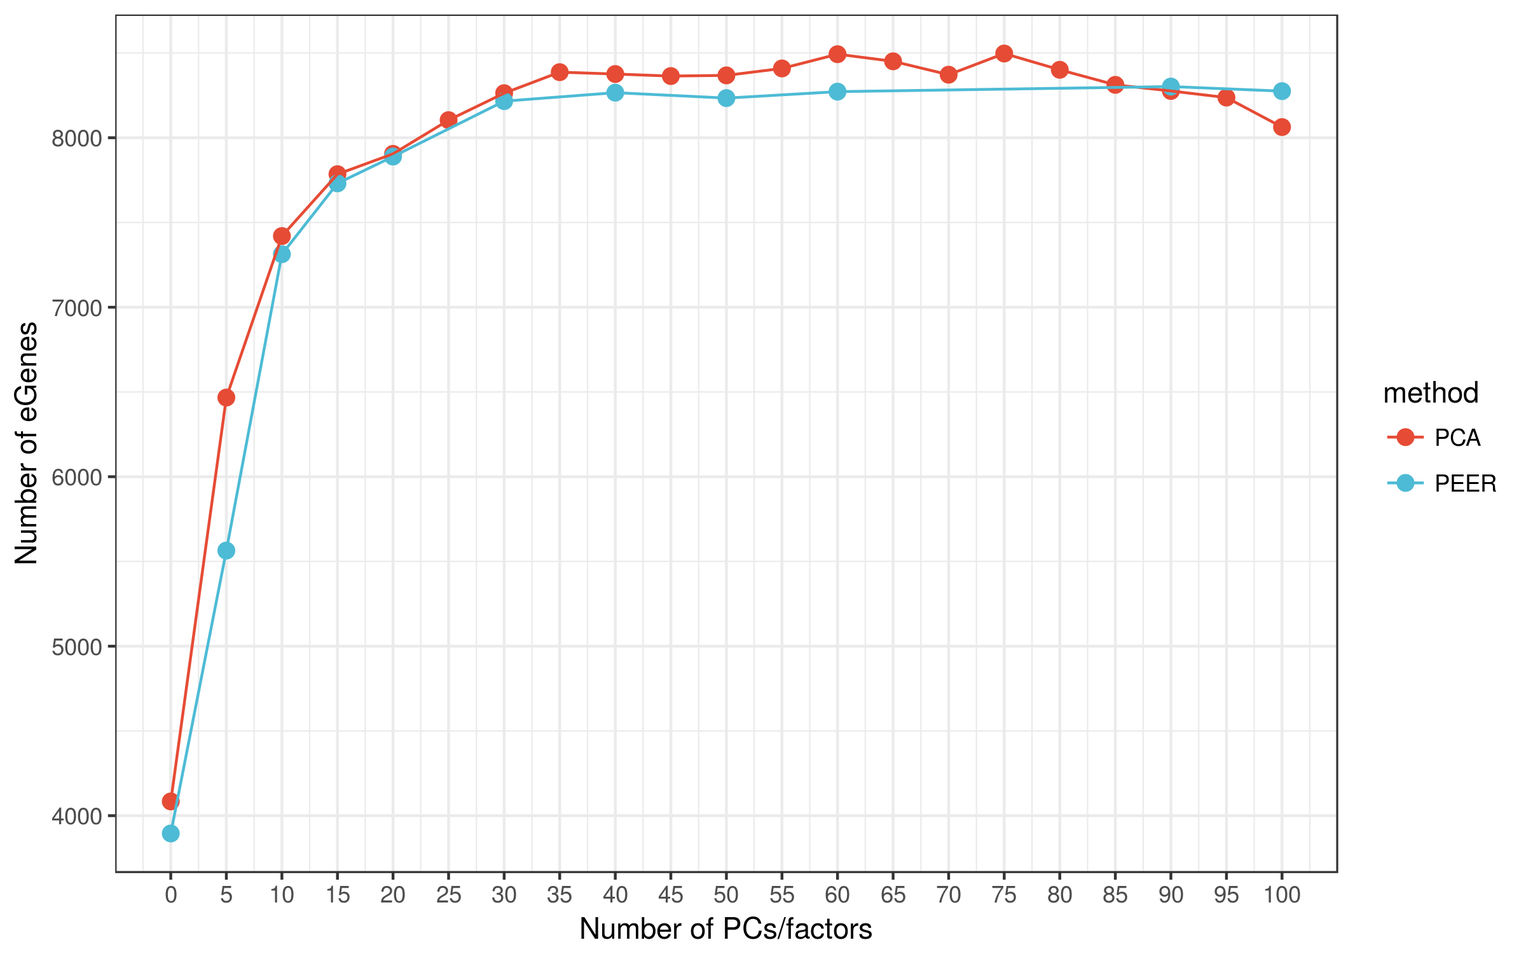
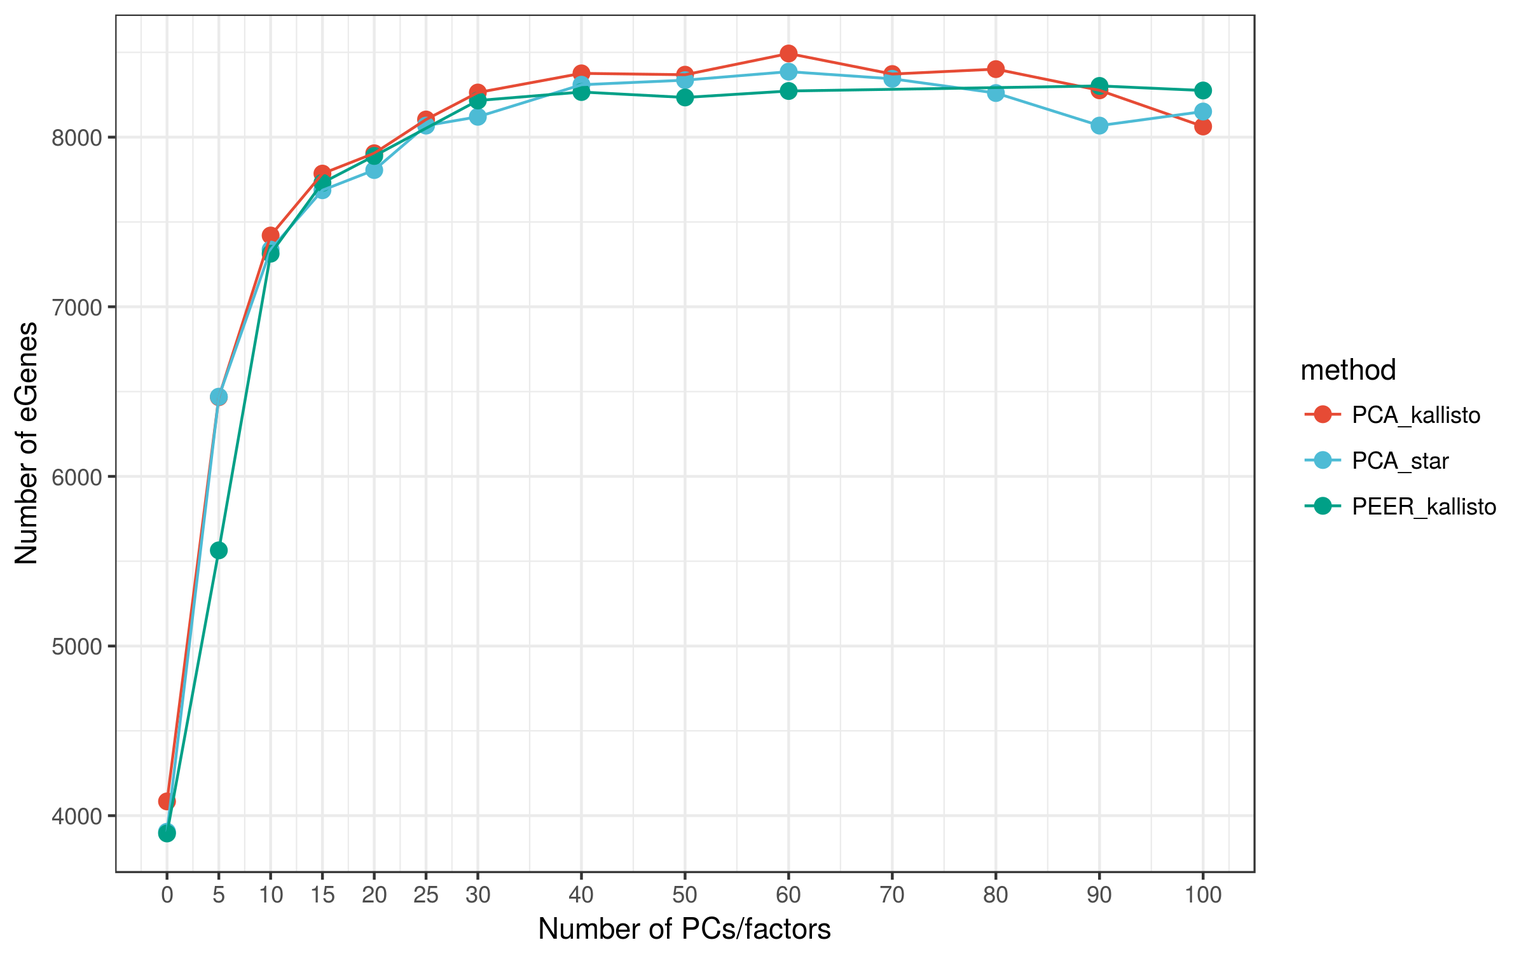
add star qtls results

diff --git a/geuvadis_reanalysis/qtls/report.md b/geuvadis_reanalysis/qtls/report.md
@@ -19,7 +19,15 @@ Number of eGenes according to method of phenotype correction
 Distribution of eQTLs around the TSS
 ------------------------------------
 
-![](./plots/qtls_landscape.png)
+### kallisto
+
+![](./plots/qtls_landscape_kallisto.png)
+
+### STAR
+
+![](./plots/qtls_landscape_star.png)
+
+**.............................................................** **NOTE: All analyses below were carried out using kallisto data** **.............................................................**
 
 HLA lineages
 ------------
@@ -36,57 +44,56 @@ Some of our eQTLs seem to mark the same biological signal as the eQTLs found by 
 
 | gene     | variant     |  rank| geuvadis\_gene    | geuvadis\_variant |    rtc|
 |:---------|:------------|-----:|:------------------|:------------------|------:|
-| HLA-A    | rs3823342   |     0| HLA-A             | rs114565353       |  0.358|
-| HLA-A    | rs1655924   |     1| HLA-A             | rs114565353       |  0.998|
-| HLA-B    | rs1265081   |     0| HLA-C             | rs115899777       |  0.982|
-| HLA-B    | rs9265885   |     1| HLA-B             | rs137939159       |  0.298|
-| HLA-C    | rs113169753 |     0| HLA-C             | rs115899777       |  0.977|
-| HLA-C    | rs3134776   |     1| HLA-B             | rs137939159       |  0.915|
-| HLA-C    | rs17408553  |     2| HLA-B             | rs137939159       |  0.351|
-| HLA-DQA1 | rs9272316   |     0| HLA-DRB1          | rs116405062       |  0.970|
-| HLA-DQA1 | rs9271375   |     1| HLA-DQA1/HLA-DQB1 | rs9274660         |  0.822|
-| HLA-DQA1 | rs114968045 |     2| HLA-DQA1/HLA-DQB1 | rs9274660         |  0.771|
-| HLA-DQB1 | rs1770      |     0| HLA-DQA1/HLA-DQB1 | rs9274660         |  0.996|
-| HLA-DQB1 | rs4713570   |     1| HLA-DRB1          | rs116405062       |  0.708|
-| HLA-DRB1 | rs9270698   |     0| HLA-DQA1/HLA-DQB1 | rs9274660         |  0.920|
-| HLA-DRB1 | rs1048372   |     1| HLA-DQA1/HLA-DQB1 | rs9274660         |  0.723|
-| HLA-DRB1 | rs9274063   |     2| HLA-DQA1/HLA-DQB1 | rs9274660         |  0.952|
+| HLA-A    | rs3823342   |     0| HLA-A             | rs114565353       |  0.348|
+| HLA-A    | rs1655924   |     1| HLA-A             | rs114565353       |  0.997|
+| HLA-B    | rs1265081   |     0| HLA-C             | rs115899777       |  0.988|
+| HLA-B    | rs9264803   |     1| HLA-C             | rs115899777       |  0.438|
+| HLA-C    | rs146911342 |     0| HLA-C             | rs115899777       |  0.967|
+| HLA-C    | rs4098923   |     1| HLA-B             | rs137939159       |  0.962|
+| HLA-C    | rs2249741   |     2| HLA-B             | rs137939159       |  0.488|
+| HLA-DQA1 | rs9272316   |     0| HLA-DRB1          | rs116405062       |  0.975|
+| HLA-DQA1 | rs9271375   |     1| HLA-DQA1/HLA-DQB1 | rs9274660         |  0.836|
+| HLA-DQA1 | rs2395222   |     2| HLA-DQA1/HLA-DQB1 | rs9274660         |  0.774|
+| HLA-DQB1 | rs9274688   |     0| HLA-DRB1          | rs116405062       |  0.924|
+| HLA-DQB1 | rs3134978   |     1| HLA-DRB1          | rs116405062       |  0.668|
+| HLA-DQB1 | rs3134988   |     2| HLA-DQA1/HLA-DQB1 | rs9274660         |  0.956|
+| HLA-DRB1 | rs3104412   |     0| HLA-DQA1/HLA-DQB1 | rs9274660         |  0.999|
+| HLA-DRB1 | rs9269297   |     1| HLA-DQA1/HLA-DQB1 | rs9274660         |  0.733|
 
 Association with GWAS traits
 ----------------------------
 
-| gene     |  rank| variant     | gwas\_variant |    rtc| trait                                            | studies                                                                                                                                                                                                                       |
-|:---------|-----:|:------------|:--------------|------:|:-------------------------------------------------|:------------------------------------------------------------------------------------------------------------------------------------------------------------------------------------------------------------------------------|
-| HLA-A    |     0| rs3823342   | rs2517713     |  0.984| nasopharyngeal neoplasm                          | www.ncbi.nlm.nih.gov/pubmed/19664746                                                                                                                                                                                          |
-| HLA-A    |     1| rs1655924   | rs2571391     |  0.943| serum IgE measurement                            | www.ncbi.nlm.nih.gov/pubmed/22075330                                                                                                                                                                                          |
-| HLA-B    |     0| rs1265081   | rs1265112     |  0.997| response to reverse transcriptase inhibitor      | www.ncbi.nlm.nih.gov/pubmed/21810746                                                                                                                                                                                          |
-| HLA-B    |     1| rs9265885   | rs2442719     |  0.999| HIV-1 infection, HIV viral set point measurement | www.ncbi.nlm.nih.gov/pubmed/26039976                                                                                                                                                                                          |
-| HLA-C    |     0| rs113169753 | rs9263963     |  0.971| serum IgG glycosylation measurement              | www.ncbi.nlm.nih.gov/pubmed/23382691                                                                                                                                                                                          |
-| HLA-C    |     1| rs3134776   | rs1265159     |  0.990| membranous glomerulonephritis                    | www.ncbi.nlm.nih.gov/pubmed/21323541                                                                                                                                                                                          |
-| HLA-C    |     2| rs17408553  | rs2524079     |  0.998| lymphocyte count                                 | www.ncbi.nlm.nih.gov/pubmed/21738480                                                                                                                                                                                          |
-| HLA-DQA1 |     0| rs9272316   | rs2395185     |  0.981| antinuclear antibody measurement                 | www.ncbi.nlm.nih.gov/pubmed/19122664 www.ncbi.nlm.nih.gov/pubmed/22286212 www.ncbi.nlm.nih.gov/pubmed/19915573 www.ncbi.nlm.nih.gov/pubmed/23143601 www.ncbi.nlm.nih.gov/pubmed/25186300 www.ncbi.nlm.nih.gov/pubmed/20228799 |
-| HLA-DQA1 |     0| rs9272316   | rs2395185     |  0.981| Hodgkins lymphoma                                | www.ncbi.nlm.nih.gov/pubmed/19122664 www.ncbi.nlm.nih.gov/pubmed/22286212 www.ncbi.nlm.nih.gov/pubmed/19915573 www.ncbi.nlm.nih.gov/pubmed/23143601 www.ncbi.nlm.nih.gov/pubmed/25186300 www.ncbi.nlm.nih.gov/pubmed/20228799 |
-| HLA-DQA1 |     0| rs9272316   | rs2395185     |  0.981| lung carcinoma                                   | www.ncbi.nlm.nih.gov/pubmed/19122664 www.ncbi.nlm.nih.gov/pubmed/22286212 www.ncbi.nlm.nih.gov/pubmed/19915573 www.ncbi.nlm.nih.gov/pubmed/23143601 www.ncbi.nlm.nih.gov/pubmed/25186300 www.ncbi.nlm.nih.gov/pubmed/20228799 |
-| HLA-DQA1 |     0| rs9272316   | rs2395185     |  0.981| ulcerative colitis                               | www.ncbi.nlm.nih.gov/pubmed/19122664 www.ncbi.nlm.nih.gov/pubmed/22286212 www.ncbi.nlm.nih.gov/pubmed/19915573 www.ncbi.nlm.nih.gov/pubmed/23143601 www.ncbi.nlm.nih.gov/pubmed/25186300 www.ncbi.nlm.nih.gov/pubmed/20228799 |
-| HLA-DQA1 |     0| rs9272316   | rs9268853     |  0.981| lymphoma                                         | www.ncbi.nlm.nih.gov/pubmed/21297633 www.ncbi.nlm.nih.gov/pubmed/23349640 www.ncbi.nlm.nih.gov/pubmed/23511034                                                                                                                |
-| HLA-DQA1 |     0| rs9272316   | rs9268853     |  0.981| ulcerative colitis                               | www.ncbi.nlm.nih.gov/pubmed/21297633 www.ncbi.nlm.nih.gov/pubmed/23349640 www.ncbi.nlm.nih.gov/pubmed/23511034                                                                                                                |
-| HLA-DQA1 |     0| rs9272316   | rs9268905     |  0.981| Cystic fibrosis                                  | www.ncbi.nlm.nih.gov/pubmed/21602797                                                                                                                                                                                          |
-| HLA-DQA1 |     0| rs9272316   | rs9268923     |  0.981| ulcerative colitis                               | www.ncbi.nlm.nih.gov/pubmed/20228798 www.ncbi.nlm.nih.gov/pubmed/26819262                                                                                                                                                     |
-| HLA-DQA1 |     0| rs9272316   | rs9268923     |  0.981| NA                                               | www.ncbi.nlm.nih.gov/pubmed/20228798 www.ncbi.nlm.nih.gov/pubmed/26819262                                                                                                                                                     |
-| HLA-DQA1 |     1| rs9271375   | rs3135338     |  0.986| multiple sclerosis                               | www.ncbi.nlm.nih.gov/pubmed/20159113                                                                                                                                                                                          |
-| HLA-DQA1 |     2| rs114968045 | rs9461776     |  0.997| cryoglobulinemia, Chronic Hepatitis C infection  | www.ncbi.nlm.nih.gov/pubmed/25030430                                                                                                                                                                                          |
-| HLA-DQB1 |     0| rs1770      | rs6927022     |  0.998| ulcerative colitis                               | www.ncbi.nlm.nih.gov/pubmed/23128233                                                                                                                                                                                          |
-| HLA-DQB1 |     1| rs4713570   | rs10484561    |  0.995| neoplasm of mature B-cells                       | www.ncbi.nlm.nih.gov/pubmed/20639881                                                                                                                                                                                          |
-| HLA-DQB1 |     2| rs9275596   | rs9275596     |  1.000| IGA glomerulonephritis                           | www.ncbi.nlm.nih.gov/pubmed/21399633 www.ncbi.nlm.nih.gov/pubmed/25305756 www.ncbi.nlm.nih.gov/pubmed/25710614                                                                                                                |
-| HLA-DQB1 |     2| rs9275596   | rs9275596     |  1.000| kidney disease                                   | www.ncbi.nlm.nih.gov/pubmed/21399633 www.ncbi.nlm.nih.gov/pubmed/25305756 www.ncbi.nlm.nih.gov/pubmed/25710614                                                                                                                |
-| HLA-DQB1 |     2| rs9275596   | rs9275596     |  1.000| peanut allergy measurement                       | www.ncbi.nlm.nih.gov/pubmed/21399633 www.ncbi.nlm.nih.gov/pubmed/25305756 www.ncbi.nlm.nih.gov/pubmed/25710614                                                                                                                |
-| HLA-DRB1 |     0| rs9270698   | rs9271060     |  0.992| Crohn's disease                                  | www.ncbi.nlm.nih.gov/pubmed/26891255                                                                                                                                                                                          |
-| HLA-DRB1 |     0| rs9270698   | rs9271100     |  0.992| leprosy                                          | www.ncbi.nlm.nih.gov/pubmed/19838193 www.ncbi.nlm.nih.gov/pubmed/25642632 www.ncbi.nlm.nih.gov/pubmed/26192919                                                                                                                |
-| HLA-DRB1 |     0| rs9270698   | rs9271100     |  0.992| systemic lupus erythematosus                     | www.ncbi.nlm.nih.gov/pubmed/19838193 www.ncbi.nlm.nih.gov/pubmed/25642632 www.ncbi.nlm.nih.gov/pubmed/26192919                                                                                                                |
-| HLA-DRB1 |     0| rs9270698   | rs9271100     |  0.992| ulcerative colitis                               | www.ncbi.nlm.nih.gov/pubmed/19838193 www.ncbi.nlm.nih.gov/pubmed/25642632 www.ncbi.nlm.nih.gov/pubmed/26192919                                                                                                                |
-| HLA-DRB1 |     0| rs9270698   | rs9271192     |  0.992| Alzheimers disease                               | www.ncbi.nlm.nih.gov/pubmed/24162737                                                                                                                                                                                          |
-| HLA-DRB1 |     1| rs1048372   | rs9271348     |  0.999| rheumatoid arthritis                             | www.ncbi.nlm.nih.gov/pubmed/24532677                                                                                                                                                                                          |
-| HLA-DRB1 |     2| rs9274063   | rs35597309    |  0.998| esophageal squamous cell carcinoma               | www.ncbi.nlm.nih.gov/pubmed/25129146                                                                                                                                                                                          |
+| gene     |  rank| variant     | gwas\_variant |    rtc| trait                                           | studies                                                                                                                                                                                                                       |
+|:---------|-----:|:------------|:--------------|------:|:------------------------------------------------|:------------------------------------------------------------------------------------------------------------------------------------------------------------------------------------------------------------------------------|
+| HLA-A    |     0| rs3823342   | rs2517713     |  0.985| nasopharyngeal neoplasm                         | www.ncbi.nlm.nih.gov/pubmed/19664746                                                                                                                                                                                          |
+| HLA-A    |     1| rs1655924   | rs2571391     |  0.925| serum IgE measurement                           | www.ncbi.nlm.nih.gov/pubmed/22075330                                                                                                                                                                                          |
+| HLA-B    |     0| rs1265081   | rs1265112     |  0.997| response to reverse transcriptase inhibitor     | www.ncbi.nlm.nih.gov/pubmed/21810746                                                                                                                                                                                          |
+| HLA-B    |     1| rs9264803   | rs9264942     |  0.999| Crohn's disease                                 | www.ncbi.nlm.nih.gov/pubmed/21051598 www.ncbi.nlm.nih.gov/pubmed/20041166 www.ncbi.nlm.nih.gov/pubmed/23128233 www.ncbi.nlm.nih.gov/pubmed/26192919                                                                           |
+| HLA-B    |     1| rs9264803   | rs9264942     |  0.999| HIV-1 infection                                 | www.ncbi.nlm.nih.gov/pubmed/21051598 www.ncbi.nlm.nih.gov/pubmed/20041166 www.ncbi.nlm.nih.gov/pubmed/23128233 www.ncbi.nlm.nih.gov/pubmed/26192919                                                                           |
+| HLA-B    |     1| rs9264803   | rs9264942     |  0.999| inflammatory bowel disease                      | www.ncbi.nlm.nih.gov/pubmed/21051598 www.ncbi.nlm.nih.gov/pubmed/20041166 www.ncbi.nlm.nih.gov/pubmed/23128233 www.ncbi.nlm.nih.gov/pubmed/26192919                                                                           |
+| HLA-C    |     0| rs146911342 | rs9263963     |  0.972| serum IgG glycosylation measurement             | www.ncbi.nlm.nih.gov/pubmed/23382691                                                                                                                                                                                          |
+| HLA-C    |     1| rs4098923   | rs3869109     |  0.996| coronary heart disease                          | www.ncbi.nlm.nih.gov/pubmed/22319020                                                                                                                                                                                          |
+| HLA-C    |     2| rs2249741   | rs9264638     |  0.997| beta-2 microglobulin measurement                | www.ncbi.nlm.nih.gov/pubmed/23417110                                                                                                                                                                                          |
+| HLA-DQA1 |     0| rs9272316   | rs2395185     |  0.984| antinuclear antibody measurement                | www.ncbi.nlm.nih.gov/pubmed/19122664 www.ncbi.nlm.nih.gov/pubmed/22286212 www.ncbi.nlm.nih.gov/pubmed/19915573 www.ncbi.nlm.nih.gov/pubmed/23143601 www.ncbi.nlm.nih.gov/pubmed/25186300 www.ncbi.nlm.nih.gov/pubmed/20228799 |
+| HLA-DQA1 |     0| rs9272316   | rs2395185     |  0.984| Hodgkins lymphoma                               | www.ncbi.nlm.nih.gov/pubmed/19122664 www.ncbi.nlm.nih.gov/pubmed/22286212 www.ncbi.nlm.nih.gov/pubmed/19915573 www.ncbi.nlm.nih.gov/pubmed/23143601 www.ncbi.nlm.nih.gov/pubmed/25186300 www.ncbi.nlm.nih.gov/pubmed/20228799 |
+| HLA-DQA1 |     0| rs9272316   | rs2395185     |  0.984| lung carcinoma                                  | www.ncbi.nlm.nih.gov/pubmed/19122664 www.ncbi.nlm.nih.gov/pubmed/22286212 www.ncbi.nlm.nih.gov/pubmed/19915573 www.ncbi.nlm.nih.gov/pubmed/23143601 www.ncbi.nlm.nih.gov/pubmed/25186300 www.ncbi.nlm.nih.gov/pubmed/20228799 |
+| HLA-DQA1 |     0| rs9272316   | rs2395185     |  0.984| ulcerative colitis                              | www.ncbi.nlm.nih.gov/pubmed/19122664 www.ncbi.nlm.nih.gov/pubmed/22286212 www.ncbi.nlm.nih.gov/pubmed/19915573 www.ncbi.nlm.nih.gov/pubmed/23143601 www.ncbi.nlm.nih.gov/pubmed/25186300 www.ncbi.nlm.nih.gov/pubmed/20228799 |
+| HLA-DQA1 |     0| rs9272316   | rs9268853     |  0.984| lymphoma                                        | www.ncbi.nlm.nih.gov/pubmed/21297633 www.ncbi.nlm.nih.gov/pubmed/23349640 www.ncbi.nlm.nih.gov/pubmed/23511034                                                                                                                |
+| HLA-DQA1 |     0| rs9272316   | rs9268853     |  0.984| ulcerative colitis                              | www.ncbi.nlm.nih.gov/pubmed/21297633 www.ncbi.nlm.nih.gov/pubmed/23349640 www.ncbi.nlm.nih.gov/pubmed/23511034                                                                                                                |
+| HLA-DQA1 |     0| rs9272316   | rs9268905     |  0.984| Cystic fibrosis                                 | www.ncbi.nlm.nih.gov/pubmed/21602797                                                                                                                                                                                          |
+| HLA-DQA1 |     0| rs9272316   | rs9268923     |  0.984| ulcerative colitis                              | www.ncbi.nlm.nih.gov/pubmed/20228798 www.ncbi.nlm.nih.gov/pubmed/26819262                                                                                                                                                     |
+| HLA-DQA1 |     0| rs9272316   | rs9268923     |  0.984| NA                                              | www.ncbi.nlm.nih.gov/pubmed/20228798 www.ncbi.nlm.nih.gov/pubmed/26819262                                                                                                                                                     |
+| HLA-DQA1 |     1| rs9271375   | rs3135338     |  0.985| multiple sclerosis                              | www.ncbi.nlm.nih.gov/pubmed/20159113                                                                                                                                                                                          |
+| HLA-DQA1 |     2| rs2395222   | rs9461776     |  1.000| cryoglobulinemia, Chronic Hepatitis C infection | www.ncbi.nlm.nih.gov/pubmed/25030430                                                                                                                                                                                          |
+| HLA-DQB1 |     0| rs9274688   | rs2647045     |  0.994| lymphoma                                        | www.ncbi.nlm.nih.gov/pubmed/23349640                                                                                                                                                                                          |
+| HLA-DQB1 |     1| rs3134978   | rs2647044     |  0.999| pulmonary function measurement, FEV/FEC ratio   | www.ncbi.nlm.nih.gov/pubmed/17632545 www.ncbi.nlm.nih.gov/pubmed/21946350                                                                                                                                                     |
+| HLA-DQB1 |     1| rs3134978   | rs2647044     |  0.999| type I diabetes mellitus                        | www.ncbi.nlm.nih.gov/pubmed/17632545 www.ncbi.nlm.nih.gov/pubmed/21946350                                                                                                                                                     |
+| HLA-DQB1 |     1| rs3134978   | rs3129716     |  0.999| systemic lupus erythematosus                    | www.ncbi.nlm.nih.gov/pubmed/26316170                                                                                                                                                                                          |
+| HLA-DQB1 |     2| rs3134988   | rs9272346     |  0.990| asthma                                          | www.ncbi.nlm.nih.gov/pubmed/17554300 www.ncbi.nlm.nih.gov/pubmed/18978792 www.ncbi.nlm.nih.gov/pubmed/23181788                                                                                                                |
+| HLA-DQB1 |     2| rs3134988   | rs9272346     |  0.990| type I diabetes mellitus                        | www.ncbi.nlm.nih.gov/pubmed/17554300 www.ncbi.nlm.nih.gov/pubmed/18978792 www.ncbi.nlm.nih.gov/pubmed/23181788                                                                                                                |
+| HLA-DRB1 |     0| rs3104412   | rs1063355     |  0.999| ulcerative colitis                              | www.ncbi.nlm.nih.gov/pubmed/24837172                                                                                                                                                                                          |
+| HLA-DRB1 |     1| rs9269297   | rs9270984     |  0.996| systemic lupus erythematosus                    | www.ncbi.nlm.nih.gov/pubmed/23273568                                                                                                                                                                                          |
+| HLA-DRB1 |     1| rs9269297   | rs9270986     |  0.996| Myasthenia gravis                               | www.ncbi.nlm.nih.gov/pubmed/25643325                                                                                                                                                                                          |
 
 Trans-eQTLs
 -----------
@@ -95,7 +102,7 @@ Trans-eQTLs
 
 | gene\_name | variant\_id |  variant\_chr|  variant\_pos|  log10\_nom\_pval|
 |:-----------|:------------|-------------:|-------------:|-----------------:|
-| HLA-DQA1   | rs3997880   |             2|     178431654|          22.02544|
-| HLA-DQA1   | rs145339215 |             2|     178431521|          21.92733|
-| HLA-DQA1   | rs3997878   |             2|     178431899|          21.20140|
-| HLA-DQA1   | rs141354030 |             2|     178451007|          15.41356|
+| HLA-DQA1   | rs3997880   |             2|     178431654|          24.68348|
+| HLA-DQA1   | rs145339215 |             2|     178431521|          24.36982|
+| HLA-DQA1   | rs3997878   |             2|     178431899|          22.69566|
+| HLA-DQA1   | rs141354030 |             2|     178451007|          15.14352|
